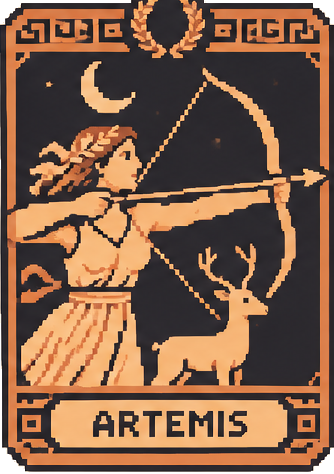
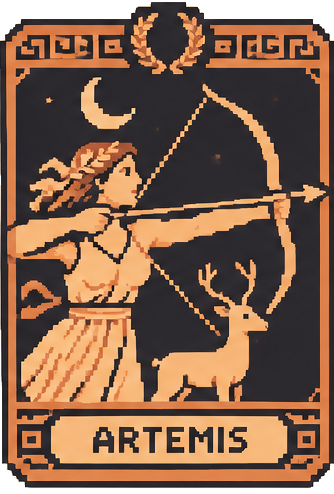
Rest of the work as a plain list from the deck, stone chips for companies, a boat in the harbour to close

diff --git a/components/deck/Deck.tsx b/components/deck/Deck.tsx
@@ -42,26 +42,7 @@ export default function Deck({ art = [] }: { art?: string[] }) {
   const sheet = useRef<HTMLDivElement>(null);
   const origin = useRef<HTMLButtonElement | null>(null);
   const closeBtn = useRef<HTMLButtonElement>(null);
-  const pile = useRef<HTMLButtonElement>(null);
-  const restRef = useRef<HTMLUListElement>(null);
 
-  // the other cards live in the deck: when it opens, each one is dealt out
-  // from the deck's own position to its place
-  useEffect(() => {
-    if (!spread || !pile.current || !restRef.current) return;
-    if (window.matchMedia("(prefers-reduced-motion: reduce)").matches) return;
-    const from = pile.current.getBoundingClientRect();
-    restRef.current.querySelectorAll<HTMLElement>(".tarot__item").forEach((el, i) => {
-      const r = el.getBoundingClientRect();
-      el.animate(
-        [
-          { transform: `translate(${from.left - r.left}px, ${from.top - r.top}px) scale(${from.width / r.width})`, opacity: 0.6 },
-          { transform: "translate(0px, 0px) scale(1)", opacity: 1 },
-        ],
-        { duration: 420, delay: i * 60, easing: "cubic-bezier(.2,.7,.2,1)", fill: "backwards" }
-      );
-    });
-  }, [spread]);
   const reduced = () => window.matchMedia("(prefers-reduced-motion: reduce)").matches;
 
   const show = (p: Project, n: number, btn: HTMLButtonElement) => {
@@ -88,7 +69,8 @@ export default function Deck({ art = [] }: { art?: string[] }) {
     const g = ghost.current, sh = sheet.current, src = origin.current;
     const r = src.getBoundingClientRect();
     Object.assign(g.style, { left: `${r.left}px`, top: `${r.top}px`, width: `${r.width}px`, height: `${r.height}px`, visibility: "visible" });
-    src.style.visibility = "hidden";
+    const plain = src.classList.contains("rest__row");
+    if (!plain) src.style.visibility = "hidden";
     sh.style.visibility = "hidden";
     let done = false;
     const settle = () => {
@@ -104,6 +86,13 @@ export default function Deck({ art = [] }: { art?: string[] }) {
     if (reduced()) {
       settle();
       return;
+    }
+    if (plain) {
+      g.style.visibility = "hidden";
+      sh.style.visibility = "visible";
+      sh.animate([{ transform: SHEET_EDGE }, { transform: SHEET_FLAT }], { duration: 300, easing: "cubic-bezier(.1,.6,.3,1)" }).onfinish = settle;
+      const t = setTimeout(settle, 700);
+      return () => clearTimeout(t);
     }
     const a = g.animate([{ transform: AT_REST }, { transform: toCentre() }], { duration: 300, easing: "cubic-bezier(.5,0,.9,.6)", fill: "forwards" });
     a.onfinish = () => {
@@ -140,6 +129,7 @@ export default function Deck({ art = [] }: { art?: string[] }) {
     const a = sh.animate([{ transform: SHEET_FLAT }, { transform: SHEET_EDGE }], { duration: 220, easing: "ease-in", fill: "forwards" });
     a.onfinish = () => {
       sh.style.visibility = "hidden";
+      if (origin.current?.classList.contains("rest__row")) return settle();
       g.style.visibility = "visible";
       g.getAnimations().forEach((x) => x.cancel());
       const b = g.animate([{ transform: toCentre() }, { transform: AT_REST }], { duration: 300, easing: "cubic-bezier(.1,.6,.3,1)" });
@@ -178,7 +168,7 @@ export default function Deck({ art = [] }: { art?: string[] }) {
       <ul className="tarot tarot--major">
         {PROJECTS.map((p, n) => (p.flagship ? item(p, n) : null))}
         <li className="tarot__item tarot__item--deck">
-          <button ref={pile} className="pile" onClick={() => setSpread((v) => !v)} aria-expanded={spread} aria-controls="the-rest">
+          <button className="pile" onClick={() => setSpread((v) => !v)} aria-expanded={spread} aria-controls="the-rest">
             {/* eslint-disable @next/next/no-img-element */}
             <img className="pile__card" src="/cards/back.png" alt="" />
             <img className="pile__card" src="/cards/back.png" alt="" />
@@ -189,9 +179,21 @@ export default function Deck({ art = [] }: { art?: string[] }) {
           <span className="tarot__type">{spread ? "close the deck" : "open the deck"}</span>
         </li>
       </ul>
-      <ul ref={restRef} id="the-rest" className={`tarot tarot--minor${spread ? " is-spread" : ""}`} hidden={!spread}>
-        {PROJECTS.map((p, n) => (p.flagship ? null : item(p, n, rest.indexOf(p))))}
-      </ul>
+      {spread && (
+        <ul id="the-rest" className="rest">
+          {PROJECTS.map((p, n) =>
+            p.flagship ? null : (
+              <li key={p.slug}>
+                <button className="rest__row" onClick={(e) => show(p, n, e.currentTarget)} aria-haspopup="dialog">
+                  <span className="rest__title">{p.title}</span>
+                  <span className="rest__lede">{p.lede}</span>
+                  <span className="rest__type">{p.type}</span>
+                </button>
+              </li>
+            )
+          )}
+        </ul>
+      )}
 
       {open &&
         createPortal(

diff --git a/app/globals.css b/app/globals.css
@@ -2571,3 +2571,29 @@ h1, h2, h3,
 
 .tarot .card__img, .spin__ghost .card__img { aspect-ratio: 334 / 457; object-fit: fill; }
 .tarot__type { font-size: 0.9rem; letter-spacing: 0.1em; }
+
+/* ================= round seven ================= */
+.tarot .card__img, .spin__ghost .card__img { aspect-ratio: 334 / 477; }
+.pile { aspect-ratio: 316 / 452; }
+
+/* the rest of the work: a plain list, shown when the deck is opened */
+.rest { list-style: none; margin: 2.6rem 0 0; padding: 0; border-top: 2px solid var(--rule); }
+.rest__row {
+  display: grid; grid-template-columns: minmax(0, 1.1fr) minmax(0, 1.6fr) auto; gap: 0.4rem 2rem; align-items: baseline;
+  width: 100%; padding: 1rem 0.4rem; text-align: left; font: inherit; color: inherit;
+  background: none; border: 0; border-bottom: 2px solid var(--rule); cursor: pointer;
+}
+.rest__row:hover { background: rgba(47, 79, 158, 0.07); }
+.rest__title { font-family: var(--display); font-size: 1.7rem; line-height: 1; text-transform: uppercase; color: var(--ink); }
+.rest__lede { color: var(--ink-2); font-size: 1.05rem; }
+.rest__type { font-family: var(--display); font-size: 1.2rem; text-transform: uppercase; color: var(--ink-3); }
+
+/* companies, etched in stone too */
+.chips { list-style: none; margin: 0; padding: 0; display: flex; flex-wrap: wrap; gap: 0.8rem; }
+.stone--chip { display: block; padding: 0.55rem 1rem 0.7rem; font-family: var(--display); font-size: 1.6rem; line-height: 1; letter-spacing: 0.05em; text-transform: uppercase; }
+
+/* the closing words, in the site's own type */
+.ask { margin: 0; font-family: var(--label); font-weight: 400; font-size: clamp(1.4rem, 3vw, 2.4rem); letter-spacing: 0.1em; line-height: 1.3; color: var(--blue); text-transform: none; }
+.ask__sub { font-family: var(--display); font-style: normal; font-size: 1.6rem; text-transform: uppercase; letter-spacing: 0.04em; }
+.contact__mail { font-family: var(--display); font-size: 1.9rem; letter-spacing: 0.04em; }
+@media (max-width: 760px) { .rest__row { grid-template-columns: minmax(0, 1fr); } }

diff --git a/app/page.tsx b/app/page.tsx
@@ -4,7 +4,6 @@ import EvidenceZoom from "@/components/EvidenceZoom";
 import World from "@/components/world/World";
 import PixelName from "@/components/PixelName";
 import GradientASCII from "@/components/GradientASCII";
-import DottedLine from "@/components/DottedLine";
 import Deck from "@/components/deck/Deck";
 import Fountain from "@/components/Fountain";
 import Stream from "@/components/Stream";
@@ -88,13 +87,10 @@ export default function Home() {
               </a>
               <div className="creds__for">
                 <span className="tablet__k">Systems shipped for</span>
-                <ul className="coins">
+                <ul className="chips">
                   {CLIENTS.map((c) => (
-                    <li key={c} className="coin">
-                      <span className="coin__face" aria-hidden="true">
-                        {c[0]}
-                      </span>
-                      <span className="coin__name">{c}</span>
+                    <li key={c} className="stone stone--chip">
+                      {c}
                     </li>
                   ))}
                 </ul>
@@ -122,9 +118,7 @@ export default function Home() {
         {/* 05 THE ENDING: the aqueduct again, from below, water still flowing */}
         <section id="contact" className="scene scene--ending" data-district="ending" aria-labelledby="contact-title">
           <div className="scene__in">
-            <h2 id="contact-title" className="ask">
-              <DottedLine>Got an interesting GTM problem?</DottedLine>
-            </h2>
+            <h2 id="contact-title" className="ask">Got an interesting GTM problem?</h2>
             <p className="ask__sub">I&apos;d love to hear about it.</p>
             <p className="contact">
               <a className="contact__mail" href="mailto:adityaspark05@gmail.com">adityaspark05@gmail.com</a>

diff --git a/components/world/engine.ts b/components/world/engine.ts
@@ -141,7 +141,8 @@ function station(name: DistrictName): Station {
     case "forum":
       return { pos: new THREE.Vector3(x + 4, 13, 150), look: new THREE.Vector3(x + 10, 15, -20), fov: 40 };
     case "ending":
-      return { pos: new THREE.Vector3(x - 50, 9, 92), look: new THREE.Vector3(x + 10, 31, -10), fov: 44 };
+      // open harbour: a boat in the foreground, the quay and lighthouse beyond
+      return { pos: new THREE.Vector3(x + 74, 5, 78), look: new THREE.Vector3(x + 80, 9, -20), fov: 44 };
     default:
       return { pos: new THREE.Vector3(x - 10, ground(x - 10, 60) + 16, 60), look: new THREE.Vector3(x, 10, -12), fov: 42 };
   }

diff --git a/components/Stream.tsx b/components/Stream.tsx
@@ -85,9 +85,8 @@ export default function Stream() {
         side = side === 1 ? -1 : 1;
         n++;
       }
-      // 5. the last pool spills onto the great aqueduct of the closing scene,
-      //    which carries the water out and pours it into the harbour
-      fall(x + side * 5, y + 3, g(er.top + sy + er.height * 0.37));
+      // 5. the last pool spills over and falls into the sea of the closing scene
+      fall(x + side * 5, y + 3, g(er.top + sy + er.height * 0.66), true, true);
       total = cost;
     };
 

diff --git a/components/world/city.ts b/components/world/city.ts
@@ -728,6 +728,12 @@ export function buildCity(): City {
       b.position.set(E + 30 + i * 15 + r() * 6, 0, -6 + r() * 26);
       b.rotation.y = r() * 0.6 - 0.3;
       b.userData.ph = r() * 6;
+      // one boat sits close, looking out over the harbour
+      if (i === 0) {
+        b.position.set(E + 66, 0, 26);
+        b.rotation.y = 0.5;
+        b.scale.setScalar(1.3);
+      }
       boats.push(b);
       root.add(b);
     }
